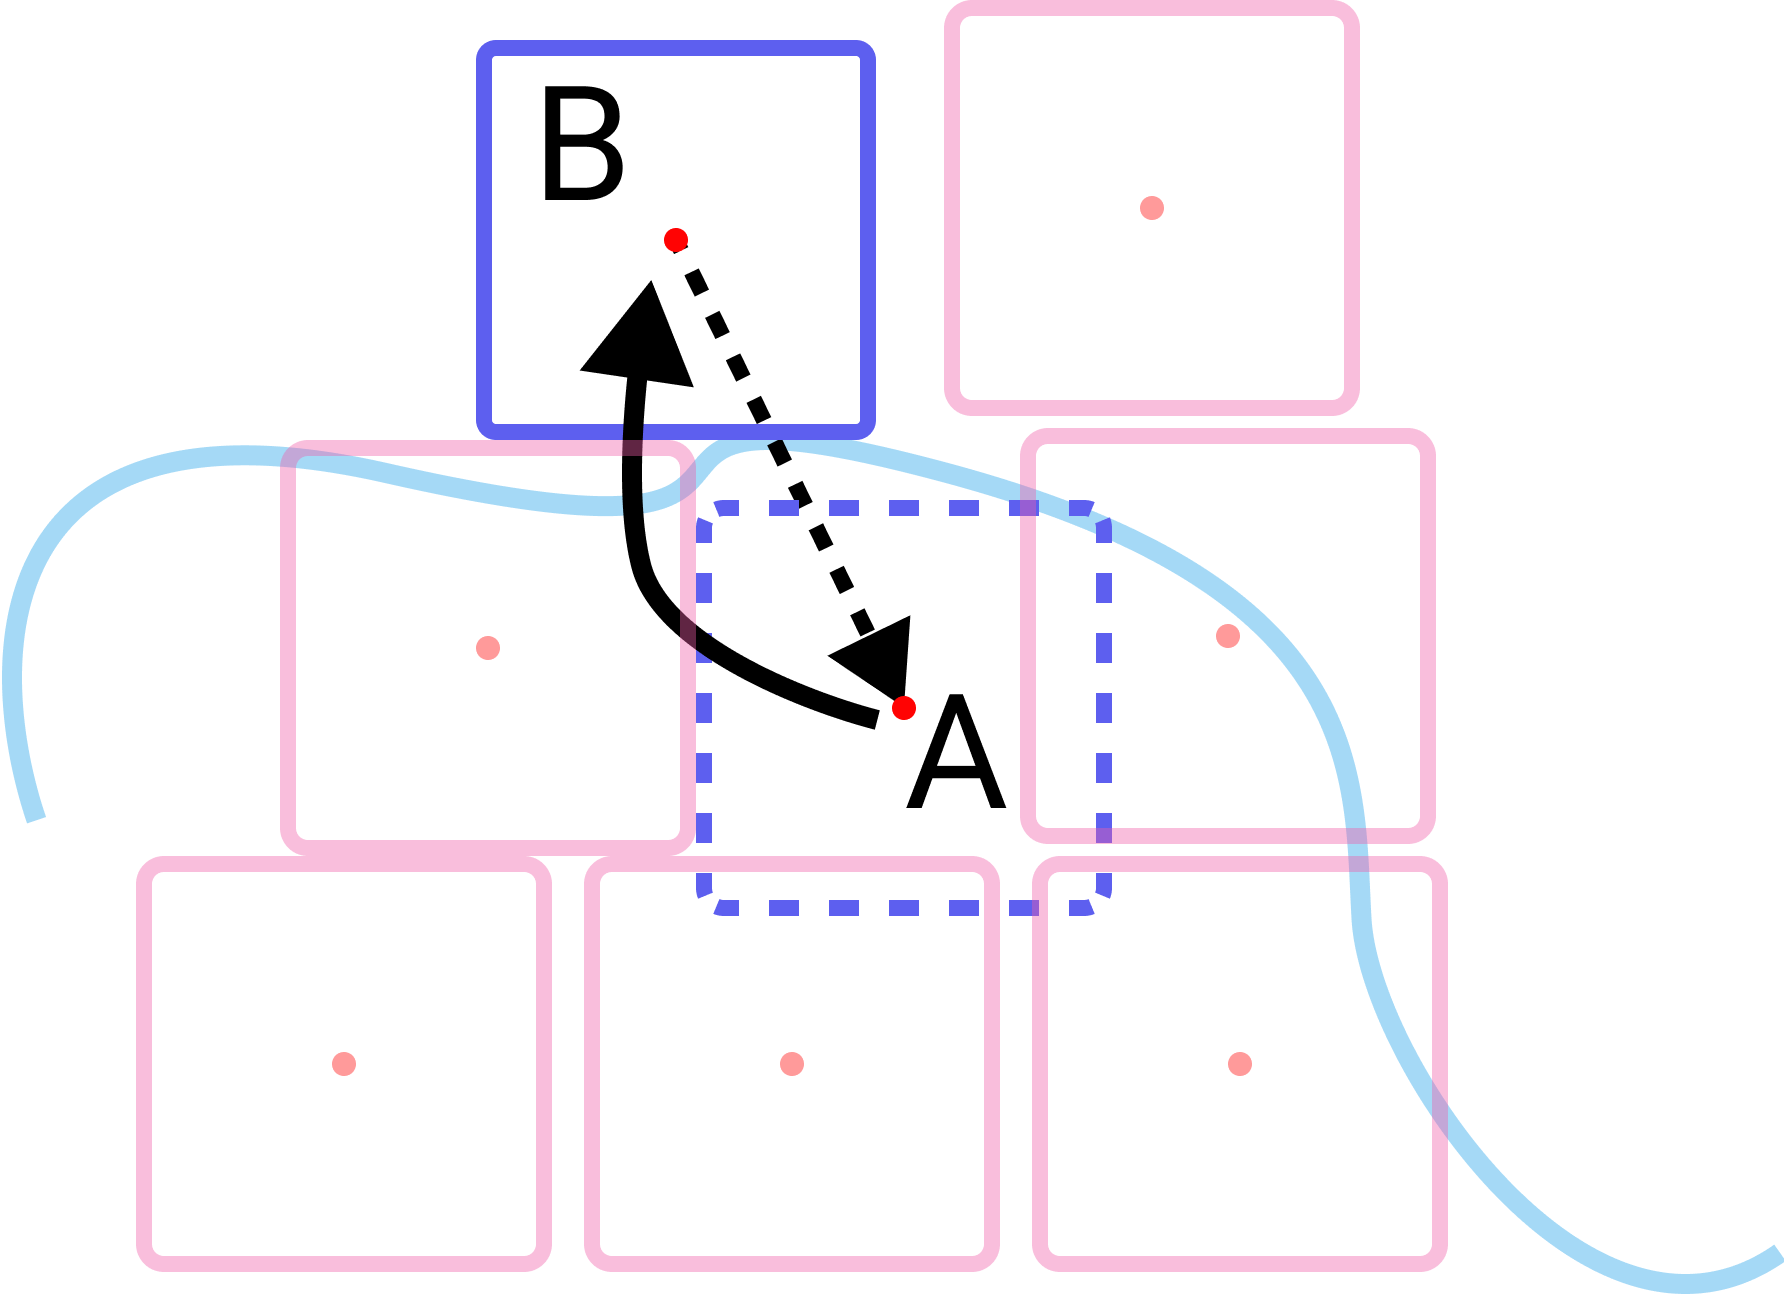
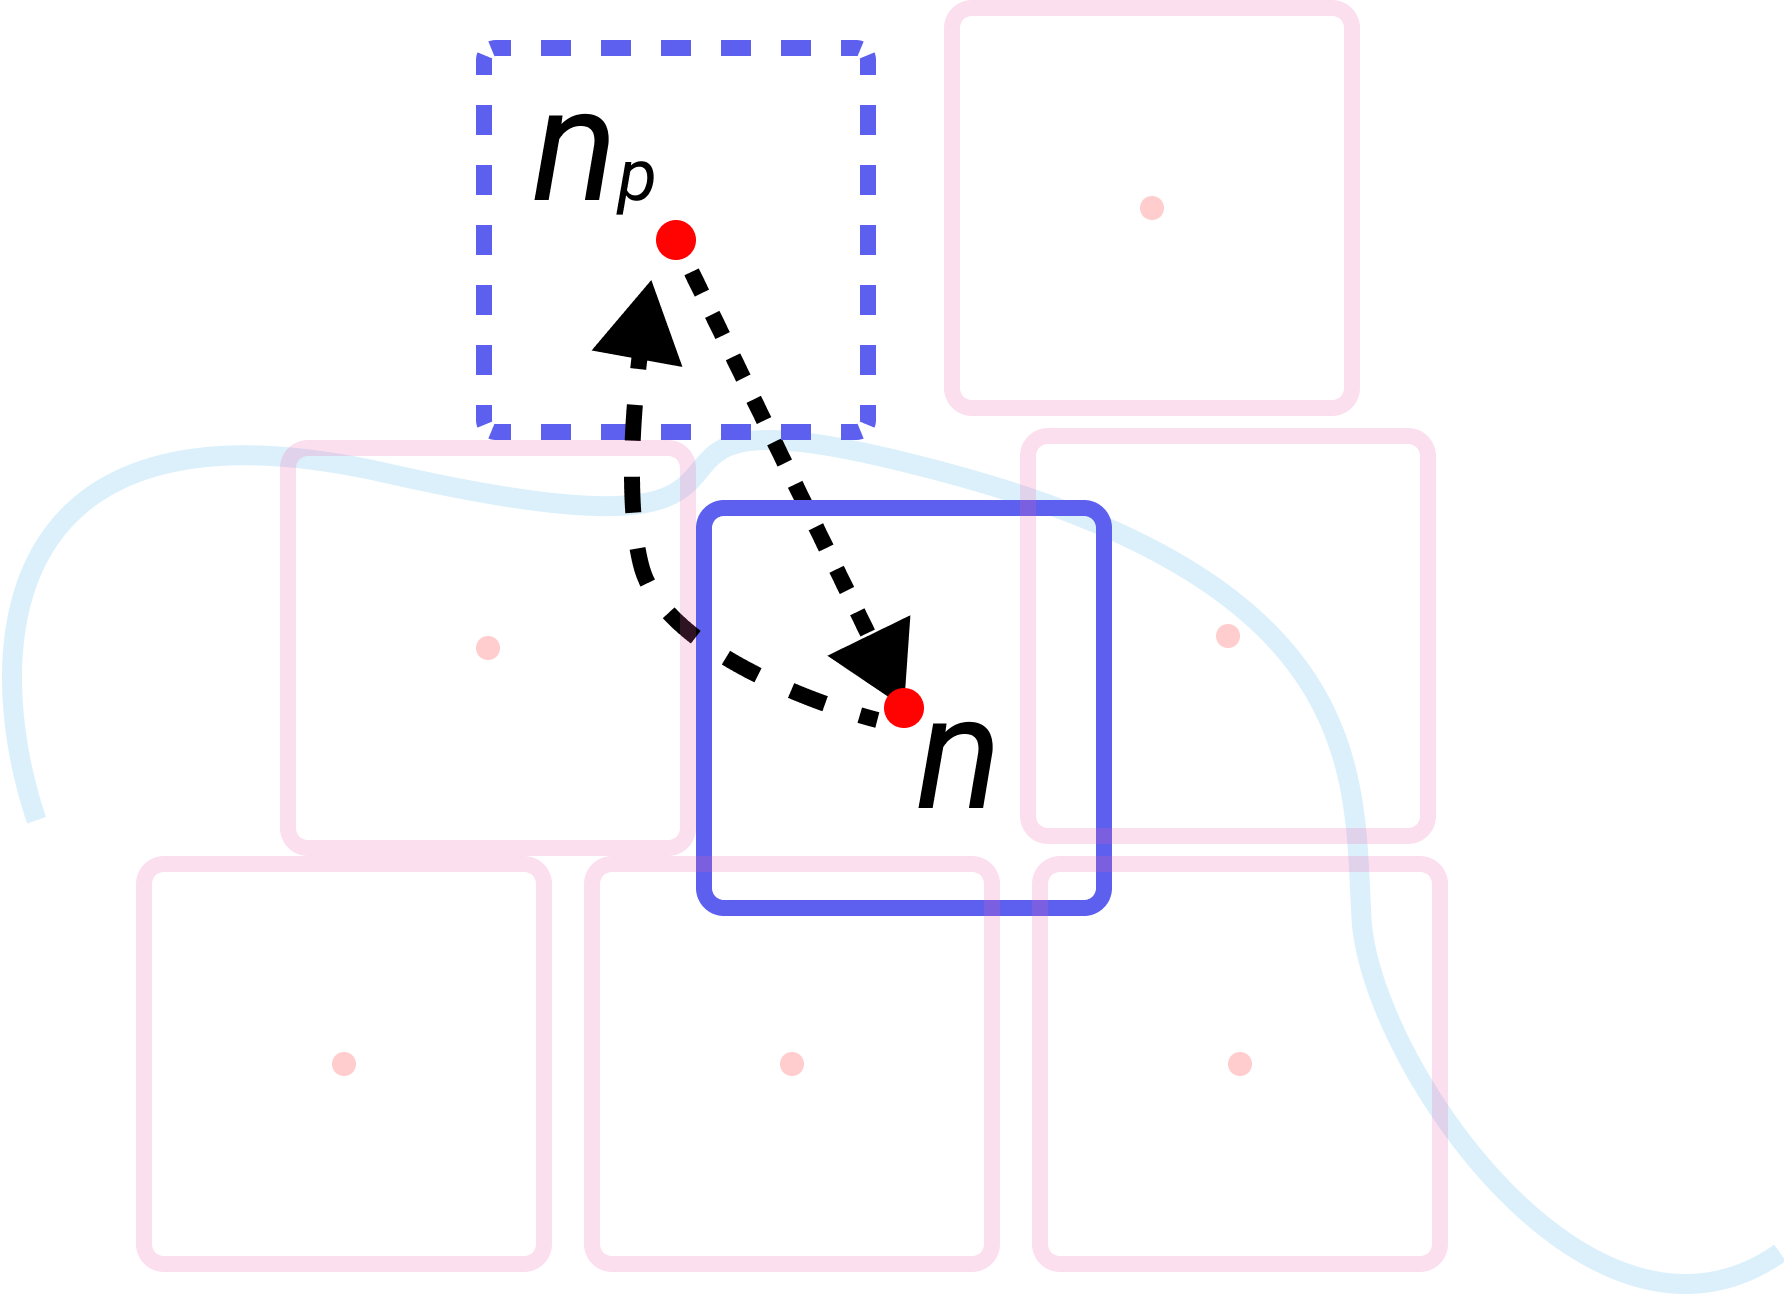
draft: update figures and algorithms

diff --git a/paper/section/main.tex b/paper/section/main.tex
@@ -1,7 +1,7 @@
 \section{Cartograms with Dynamic Features}
 
 {
-\begin{figure}[b!]
+\begin{figure}[tb!]
     \centering
     \includegraphics[width=\columnwidth]{example-image-a}
     \caption{An overview of \software. Figure TBA.}
@@ -10,7 +10,7 @@
 }
 
 {
-\begin{figure}[b!]
+\begin{figure}[tb!]
     \centering
     \includegraphics[width=\columnwidth]{figure/flowchart.png}
     \caption{A flowchart showing the abstraction of our layout algorithm.}
@@ -32,37 +32,51 @@
 
     \textbf{Local variables:} \\
     $ \nodeListVPSC \gets $ a list of nodes representing CCGs after VPSC \\
+    $ \solved \gets True $ if no node crossed a river \\
     $ \crossRiver \gets $ boolean indicating a node crossed a river \\
     $ \nodeListEach \gets $ a node in $ \nodeList $ \\
     $ \nodeListEachPrevious \gets $ the previous position of $ \nodeListEach $\\
-    $ \nodeListVPSCEach \gets $ a node in $ \nodeListVPSC $, which is the next position of $ \nodeListEach $ after VPSC \\
+    $ \nodeListVPSCEach \gets $ a node in $ \nodeListVPSC $, which is the position of $ \nodeListEach $ after VPSC \\
 
     \begin{algorithmic}[1]
         \Procedure{UpdateNodePosition}{}
         \While{$ \nodeSize < \nodeSizeMax $}
 
-            \State $ \nodeListVPSC \gets $ RunVPSC ($ \nodeList $)
+            \While{$ \solved = False $}
 
-            \ForEach {$ \nodeListVPSCEach \in \nodeListVPSC $}
+                \State $ \solved \gets True $
+                \State $ \nodeListVPSC \gets $ RunVPSC ($ \nodeList $)
 
-                \If {\Call{TranslateNode}{$ \nodeListEach, \nodeListVPSCEach $}}
-                    \State $ \crossRiver \gets $ \Call{TestRiverIntersection}{$ \nodeListEach, \nodeListVPSCEach $}
+                \ForEach {$ \nodeListVPSCEach \in \nodeListVPSC $}
 
-                    \If{$ \crossRiver = True $}
-                        \State $ \nodeListEachStalemate \gets \nodeListEachStalemate + 1 $
+                    \If {$ \nodeListEach(x,y) \neq \nodeListVPSCEach(x,y) $}
 
-                        \If{$ \nodeListEachStalemate < \stalemateMax $}
-                            \State $ \nodeListEach(x,y) \gets \nodeListEachPrevious(x,y) $
-                        \Else
-                            \State \Call{ProcessStalemate}{$ \nodeListEach, \nodeListVPSCEach $}
-                            \State $ \nodeListEachStalemate \gets 0 $
+                        \State $ \crossRiver \gets $ \Call{TestRiverIntersection}{$ \nodeListVPSCEachLine $}
+                        \State $ \nodeListEach(x,y) \gets \nodeListVPSCEach(x,y) $
+
+                        \If{$ \crossRiver = True $}
+
+                            \State $ \solved \gets False $
+                            \State $ \nodeListEachStalemate \gets \nodeListEachStalemate + 1 $
+
+                            \If{$ \nodeListEachStalemate < \stalemateMax $}
+
+                                \State $ \nodeListEach(x,y) \gets \nodeListEachPrevious(x,y) $
+
+                            \Else
+
+                                \State \Call{ProcessStalemate}{$ \nodeListEach, \nodeListVPSCEach $}
+                                \State $ \nodeListEachStalemate \gets 0 $
+
+                            \EndIf
+                            
                         \EndIf
 
                     \EndIf
 
-                \EndIf
+                \EndFor
 
-            \EndFor
+            \EndWhile
 
             \State $ \nodeSize \gets \nodeSize ++$
 
@@ -73,29 +87,29 @@
 \end{algorithm}
 
 
-\begin{algorithm}[tb!]
-    \caption{Procedure to update a single node, $ \node $'s position.}\label{alg:move position}
+% \begin{algorithm}[tb!]
+%     \caption{Procedure to update the position of a single node $ \node $.}\label{alg:move position}
 
-    \textbf{Input:} \\
-    $ \node \gets $ the node \\
-    $ \nodeVPSC \gets $ the node after running VPSC \\
+%     \textbf{Input:} \\
+%     $ \node \gets $ the node \\
+%     $ \nodeVPSC \gets $ the node after running VPSC \\
 
-    \textbf{Output:} \\
-    Returns $ True $ if the node's position is updated. \\
+%     \textbf{Output:} \\
+%     Returns $ True $ if the node's position is updated. \\
 
-    \begin{algorithmic}[1]
-        \Procedure{TranslateNode}{$ \node, \nodeVPSC $}
-        \If{$ \node(x,y) = \nodeVPSC(x,y) $}
-            \item[] \Comment{Node position remains unchanged}
-            \State \Return{$ False $}
-        \EndIf
+%     \begin{algorithmic}[1]
+%         \Procedure{TranslateNode}{$ \node, \nodeVPSC $}
+%         \If{$ \node(x,y) = \nodeVPSC(x,y) $}
+%             \item[] \Comment{Node position remains unchanged}
+%             \State \Return{$ False $}
+%         \EndIf
 
-        \State $ \node(x,y) \gets \nodeVPSC(x,y) $
+%         \State $ \node(x,y) \gets \nodeVPSC(x,y) $
 
-        \State \Return{$ True $}
-        \EndProcedure
-    \end{algorithmic}
-\end{algorithm}
+%         \State \Return{$ True $}
+%         \EndProcedure
+%     \end{algorithmic}
+% \end{algorithm}
 
 %\end{noindent}
 
@@ -115,10 +129,9 @@ We use rivers as topological boundaries and prevent nodes from crossing them. \n
 
 % \begin{noindent}
 \begin{algorithm}[tb!]
-    \caption{Procedure to test if a node, $ \node $ crosses a river.}\label{alg:check river intersection}
+    \caption{Procedure to test if a node's translation path, $ \nodeLineNV $ intersects a river.}\label{alg:check river intersection}
     \textbf{Input:} \\
-    $ \node \gets $ the node \\
-    $ \nodeVPSC \gets $ the node after running VPSC \\
+    $ \nodeLineNV \gets $ the node's translation path \\
 
     \textbf{Output:} \\
     Returns $ True $ if the node crosses a river. \\
@@ -134,7 +147,7 @@ We use rivers as topological boundaries and prevent nodes from crossing them. \n
     % $ \edgeBoxInt \gets $ boolean indicating $ \nodeEdge $ intersects $ \riverEdgeListEach $ \\
 
     \begin{algorithmic}[1]
-        \Procedure{TestRiverIntersection}{$ \node, \nodeVPSC $}
+        \Procedure{TestRiverIntersection}{$ \nodeLineNV $}
         
         \ForEach{$ \riverEdgeListEachLine \in \riverEdgeList $}
             \State $ \nodeBoundingBox \gets $ GetBoundingBox ($ \nodeLineNV $)
@@ -143,10 +156,7 @@ We use rivers as topological boundaries and prevent nodes from crossing them. \n
             % \If{$ \boundingBoxInt = True $}
 
             \If{$ \nodeBoundingBox ~intersect~ \riverEdgeBoundingBoxEach = True $}
-                \If{$ \nodeLineNV ~intersect~ \riverEdgeListEachLine = True $}
-                    \State \Return{$ True $}
-                \EndIf
-            
+                \State \Return{$ \nodeLineNV ~intersect~ \riverEdgeListEachLine $}
                 \EndIf
         \EndFor
         
@@ -158,13 +168,13 @@ We use rivers as topological boundaries and prevent nodes from crossing them. \n
 
 \subsection{Detecting Stalemates}
 
-As the VPSC always tries to produce an optimal node layout where node distribution and translation are minimized, a node might be repeatedly translated between two positions due to river intersection and congestion, creating a stalemate situation, as shown in \figref{fig:stalemate}. In order to create space for VPSC to generate a new layout, we introduce a parameter, $ \stalemateMax $, to test for stalemate. If a node is translated between two positions for more than $ \stalemateMax $ iterations, it is considered to be in a stalemate. A stalemate triggers a corridor derivation, {a corridor is a rectangle with a width of $ \CorridorWidth $ and a length of $ \CorridorLength $, in the direction of the node $ \node $'s previous and current position, denoted $ \nodeVectorPC $ }, all enclosed nodes are then translated in the same direction and by the distance of that vector to alleviate the congestion.
+As the VPSC always tries to produce an optimal node layout where node distribution and translation are minimized, a node's translation path might be repeatedly intersecting a river due to congestion, creating a stalemate situation, as shown in \figref{fig:stalemate}. If a node is translated between two positions for $ \stalemateMax $ iterations, a corridor is derived to improve the congestion. \new{A corridor is a rectangle with a width of $ \CorridorWidth $ and a length of $ \CorridorLength $, formed by deriving two edges $ \EdgeParallelA $ and $ \EdgeParallelB $ so that $ \EdgeParallelA \parallel \EdgeParallelA \parallel \nodeLineNpP $ (\figref{fig:corridor}C and D) .} All enclosed nodes are then translated based on $ \nodeVectorPC $ to alleviate the congestion (\figref{fig:corridor}D).
 
 {
 \begin{figure}[tb!]
     \centering
     \includegraphics[width=\columnwidth]{figure/stalemate.png}
-    \caption{A stalemate situation is when a node repeatedly translates between two positions (A and B) for more than $ stalemate $ iterations. }
+    \caption{A stalemate situation is when a node's translation path $ \nodeVectorCP $ intersects a river for $ \stalemateMax $ times. A stalemate often occurs when the area is congested and the node is unable to move to a position that is not intersecting a river.}
     \label{fig:stalemate}
 \end{figure}
 }
@@ -173,7 +183,7 @@ As the VPSC always tries to produce an optimal node layout where node distributi
 \begin{figure}[tb!]
     \centering
     \includegraphics[width=\columnwidth]{figure/corridor.png}
-    \caption{When a stalemate occurs, a corridor (black rectangular) is derived based on the current (A) and previous (B) positions of the node that crossed a river, as described in \algoref{alg:derive corridor}. All nodes within the corridor are moved by $ d $ units in the direction of $ \Vector{B}{A} $, e.g, A is moved to C. }
+    \caption{A stalemate occurs when a node's translation path $ \nodeVectorCP $ intersects a river for $ \stalemateMax $ times, as shown in A. To address the issue, we derive a corridor (orange rectangle in D) based on $ \node $ and $ \nodePrevious $. All nodes within the corridor are translated based on $ \nodeVectorPC $, such that $ \nodeVectorPC = \nodeVectorNNn = \nodeVectorNinNinn $. In order to show a clear illustration, we place nodes sparsely in this figure.}
     \label{fig:corridor}
 \end{figure}
 }
@@ -187,7 +197,6 @@ As the VPSC always tries to produce an optimal node layout where node distributi
     $ \node \gets $ the node used to derive the corridor \\
 
     \textbf{Global variables:} \\
-    $ \nodeSize \gets $ the current size of all nodes \\
     $ \CorridorLength \gets $ the length of a corridor \\
     $ \CorridorWidth \gets $ the width of a corridor \\
 
@@ -199,7 +208,7 @@ As the VPSC always tries to produce an optimal node layout where node distributi
 
     \begin{algorithmic}[1]
         \Procedure{ProcessStalemate}{$ \node $}
-            \State TranslateNode ($ \node $)
+            \State $ \node(x,y) \gets \nodePrevious(x,y) $
 
             \State $ \PointP \gets $ \Call{DerivePoint}{$ \nodeVectorPC $, $ \CorridorLength $}
 
@@ -216,17 +225,11 @@ As the VPSC always tries to produce an optimal node layout where node distributi
                     \EdgeParallelB.end \\
                 \end{bmatrix} $
 
-                % TODO: calculate the vector once and use it for all nodes
             \ForEach{$ \nodeInCorridorEach $ inside $ corridor $}
-                \State $ \nodeInCorridorEachDx \gets \nodeInCorridorEach.x - \nodeInCorridorEach.previous.x $
 
-                \State $ \nodeInCorridorEachDy \gets \nodeInCorridorEach.y - \nodeInCorridorEach.previous.y $
+                \State $ \Vector{\nodeInCorridorEach ~\nodeInCorridorEach.next} = \nodeVectorPC $
 
-                \State $ hyp \gets \sqrt{(\nodeInCorridorEachDx)^2 +(\nodeInCorridorEachDy)^2} $
-
-                \State $ \nodeInCorridorEach.next \gets $ \Call{DerivePoint}{$ \Vector{\nodeInCorridorEach.previous}{~\nodeInCorridorEach} $, $ hyp + s $}
-
-                \State TranslateNode ($ \nodeInCorridorEach $, $ \nodeInCorridorEach.next $)
+                \State $ \nodeInCorridorEach(x,y) \gets \nodeInCorridorEach.next(x,y) $
 
             \EndFor
         \EndProcedure
@@ -276,7 +279,7 @@ As the VPSC always tries to produce an optimal node layout where node distributi
 
     \textbf{Input:} \\
     $ \Edge \gets $ the edge used to derive the parallel edge $ \EdgeParallel $ \\
-    $ \Distance \gets $ the distance between $ \Edge $ and $ \EdgeParallel $ \\
+    $ \Distance \gets $ the shortest distance between $ \Edge $ and $ \EdgeParallel $ \\
 
     \textbf{Output:} \\
     An edge, $ \EdgeParallel $, that is parallel to $ \Edge $ with a distance of $ \Distance $. \\

diff --git a/paper/preamble/preamble.math.tex b/paper/preamble/preamble.math.tex
@@ -6,30 +6,34 @@
 
 % UpdateNodePosition
 
-\newcommand{\nodeList}{L}
+\newcommand{\nodeList}{\bm{L}}
 \newcommand{\nodeListEach}{l^i}
 
 \newcommand{\nodeListEachStalemate}{\nodeListEach.stalemate}
-\newcommand{\nodeListEachPrevious}{\nodeListEach_{previous}}
-\newcommand{\nodeListVPSC}{L'}
+\newcommand{\nodeListEachPrevious}{\nodeListEach_{p}}
+\newcommand{\nodeListVPSC}{\bm{L}'}
 \newcommand{\nodeListVPSCEach}{l^{i'}}
+
+\newcommand{\nodeListVPSCEachLine}{\Line{\nodeListEach\nodeListVPSCEach}}
 \newcommand{\nodeSize}{s}
 \newcommand{\nodeSizeMax}{s_{max}}
 \newcommand{\stalemateMax}{t}
 \newcommand{\crossRiver}{cross}
+\newcommand{\solved}{solved}
 
 % move position
 
 \newcommand{\node}{\bm{n}}
 \newcommand{\nodePrevious}{\node_{p}}
-\newcommand{\nodeVectorPC}{\Vector{\nodePrevious}{\node}}
+\newcommand{\nodeVectorPC}{\Vector{\nodePrevious\node}}
+\newcommand{\nodeVectorCP}{\Vector{\node\nodePrevious}}
 \newcommand{\nodeVPSC}{\node'}
 
 % check river crossing
 
 \newcommand{\riverEdgeList}{\bm{R}}
 \newcommand{\riverEdgeListEach}{r^i}
-\newcommand{\riverEdgeListEachLine}{\LineOne{\riverEdgeListEach}}
+\newcommand{\riverEdgeListEachLine}{\Line{\riverEdgeListEach}}
 \newcommand{\nodeBoundingBox}{b_n}
 \newcommand{\riverEdgeBoundingBoxEach}{b_{\riverEdgeListEach}}
 \newcommand{\boundingBoxInt}{b_{int.}}
@@ -40,21 +44,23 @@
 \newcommand{\CorridorLength}{c_l}
 \newcommand{\CorridorWidth}{c_w}
 \newcommand{\PointP}{p}
-\newcommand{\Edge}{\LineOne{e}}
+\newcommand{\Edge}{\Line{e}}
 \newcommand{\EdgeStart}{\Edge.start}
 \newcommand{\EdgeEnd}{\Edge.end}
-\newcommand{\EdgeParallel}{\LineOne{e_p}}
-\newcommand{\EdgeParallelA}{\LineOne{e_{p^1}}}
-\newcommand{\EdgeParallelB}{\LineOne{e_{p^2}}}
+\newcommand{\EdgeParallel}{\Line{e_p}}
+\newcommand{\EdgeParallelA}{\Line{e_{p^1}}}
+\newcommand{\EdgeParallelB}{\Line{e_{p^2}}}
 \newcommand{\Distance}{d}
-\newcommand{\nodeVectorNP}{\Vector{\node}{\PointP}}
-\newcommand{\nodeVectorNV}{\Vector{\node}{\nodeVPSC}}
-\newcommand{\nodeLineNV}{\Line{\node}{\nodeVPSC}}
-\newcommand{\nodeVectorNpP}{\Vector{\nodePrevious}{\PointP}}
-\newcommand{\nodeLineNpP}{\Line{\nodePrevious}{\PointP}}
+\newcommand{\nodeVectorNP}{\Vector{\node\PointP}}
+\newcommand{\nodeVectorNV}{\Vector{\node\nodeVPSC}}
+\newcommand{\nodeLineNV}{\Line{\node\nodeVPSC}}
+\newcommand{\nodeLinePN}{\Line{\nodePrevious\node}}
+\newcommand{\nodeVectorNpP}{\Vector{\nodePrevious\PointP}}
+\newcommand{\nodeLineNpP}{\Line{\nodePrevious\PointP}}
 \newcommand{\nodeLineWidthNpP}{\Width{\nodePrevious\PointP}}
-\newcommand{\nodeLineWidthNpN}{\Width{\nodePrevious\Node}}
-\newcommand{\nodeInCorridorEach}{{n}_{in}^i}
+\newcommand{\nodeLineWidthNpN}{\Width{\nodePrevious\node}}
+\newcommand{\nodeInCorridor}{\node_{in}}
+\newcommand{\nodeInCorridorEach}{\nodeInCorridor^i}
 \newcommand{\nodeInCorridorEachDx}{\Delta x_{\nodeInCorridorEach}}
 \newcommand{\nodeInCorridorEachDy}{\Delta y_{\nodeInCorridorEach}}
 
@@ -63,9 +69,14 @@
 \newcommand{\Scale}{scale}
 \newcommand{\dx}{\Delta x}
 \newcommand{\dy}{\Delta y}
-\newcommand{\Vector}[2]{\protect\overrightarrow{#1#2}}
-\newcommand{\Line}[2]{\protect\overline{#1#2}}
-\newcommand{\LineOne}[1]{\protect\overline{#1}}
+\newcommand{\Vector}[1]{\protect\overrightarrow{#1}}
+\newcommand{\Line}[1]{\protect\overline{#1}}
 
 
 \newcommand{\Width}[1]{\lvert #1 \rvert}
+
+
+% figure fig:corridor
+
+\newcommand{\nodeVectorNNn}{\Vector{\node\node_{next}}}
+\newcommand{\nodeVectorNinNinn}{\Vector{\nodeInCorridor\nodeInCorridor.next}}

diff --git a/paper/section/related.tex b/paper/section/related.tex
@@ -11,7 +11,7 @@ While we focus on rectangular and Dorling cartograms in this paper, we provide b
 
 {
 \renewcommand{\arraystretch}{1.5}
-\begin{table}[!b]
+\begin{table}[!tb]
 	\centering
 	\resizebox{\columnwidth}{!}{
 		\begin{tabulary}{\columnwidth}{|*{5}{l|}}
@@ -42,7 +42,7 @@ While we focus on rectangular and Dorling cartograms in this paper, we provide b
 
 {
 \renewcommand{\arraystretch}{1.5}
-\begin{table*}[!htb]
+\begin{table*}[!tb]
 	\centering
 	\resizebox{\textwidth}{!}{
 		\begin{tabulary}{\textwidth}{|*{4}{l|}r|c|}
